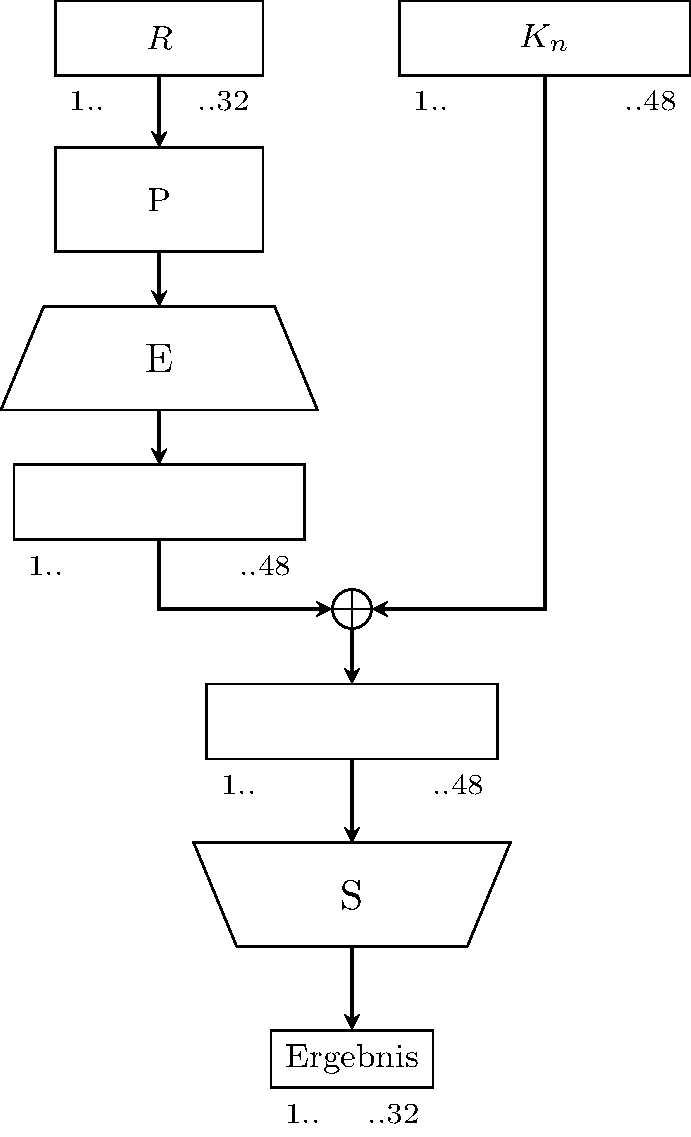
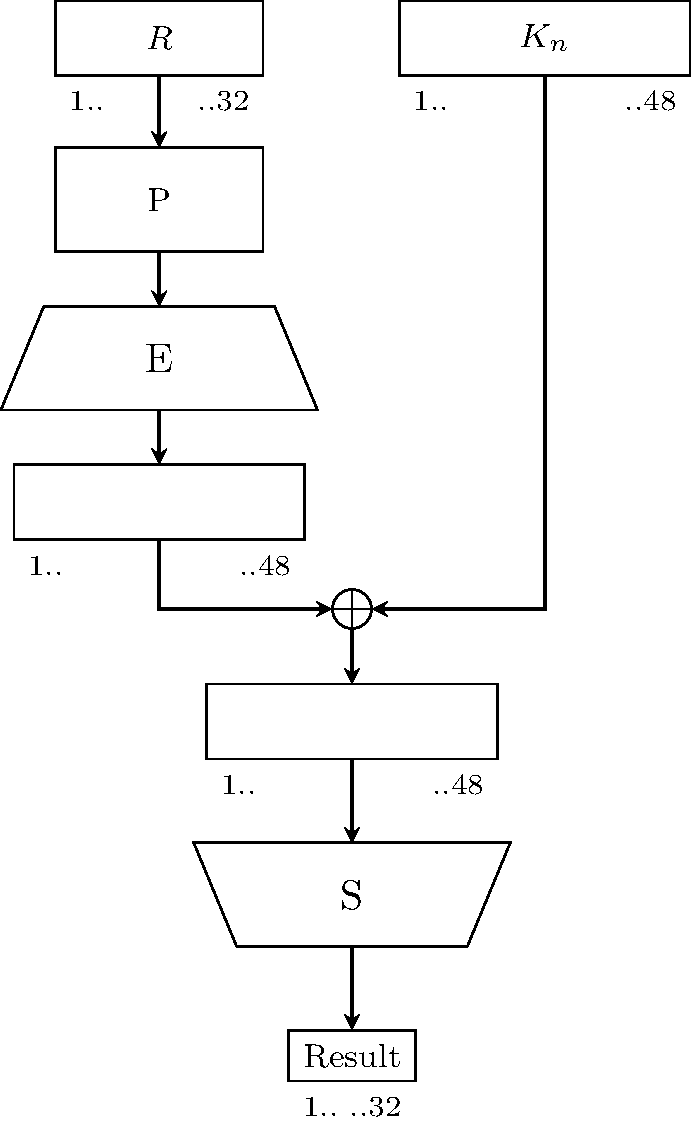
Replace German word in round depiction with the English one.

diff --git a/docs/tikz/round_overview.tex b/docs/tikz/round_overview.tex
@@ -74,7 +74,7 @@
 \draw[myarrow] (res.south) -- (S.north);
 
 %ergebnis
-\node[draw, below=20pt of S.south] (retval) {\footnotesize Ergebnis};
+\node[draw, below=20pt of S.south] (retval) {\footnotesize Result};
 \node[below=6pt of retval.south west, anchor=west] () {\scriptsize 1..};
 \node[below=6pt of retval.south east, anchor=east] () {\scriptsize ..32};
 \draw[myarrow] (S.south) -- (retval.north);
